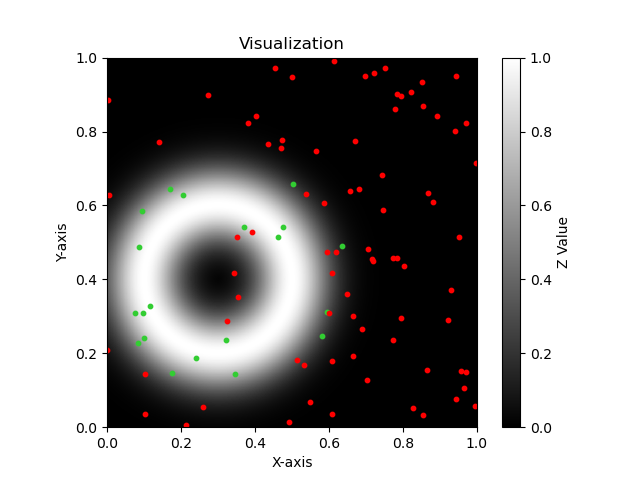
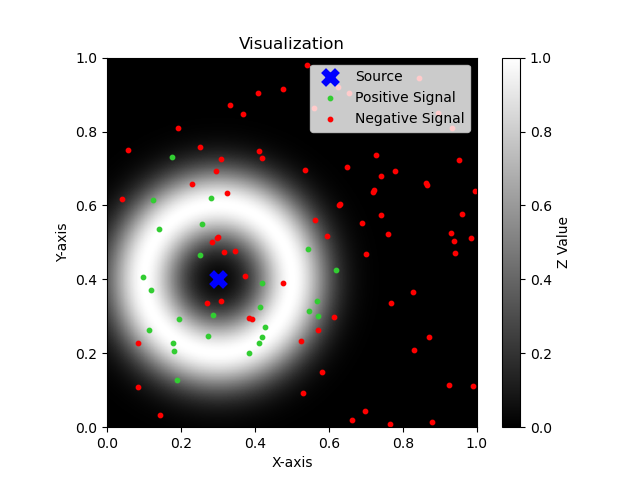
update

diff --git a/homework1/env.py b/homework1/env.py
@@ -24,6 +24,11 @@ class Env:
         self._X, self._Y = np.meshgrid(self._x, self._y)
         self._Z = np.zeros(self._X.shape).astype(np.float32)
 
+        # Default source origin is the center of the map
+        self._sx = (start_x + end_x) / 2
+        self._sy = (start_y + end_y) / 2
+        self.set_source_origin(self._sx, self._sy)
+
         # Initialize observation map with UNKNOWN values
         self._observation_map = np.full(self._X.shape, UNKNOWN).astype(np.int32)
     
@@ -32,24 +37,23 @@ class Env:
                           sy: float):
         # For each position in the map, the z value is exp(-100*(np.sqrt((x-sx)^2 + (y-sy)^2)-0.2)^2)
         # This creates a Gaussian-like distribution centered at (sx, sy)
-        self._Z = np.exp(-100 * (np.sqrt((self._X - sx) ** 2 + (self._Y - sy) ** 2) - 0.2) ** 2)
+        self._sx = sx
+        self._sy = sy
+        self._Z = np.exp(-100 * (np.sqrt((self._X - self._sx) ** 2 + (self._Y - self._sy) ** 2) - 0.2) ** 2)
 
-    def get_observation(self,
+    def register_observation(self,
                         x: float,
-                        y: float,
-                        execute: bool = True):
+                        y: float):
         # Randomly sample a value between 0 and 1
         value = np.random.rand()
         # Compare the value with the Z value at the given coordinates
         # If the value is less than the Z value, return POSITIVE
-        if value < self._Z[int((x - self.start_x) / self.dl), int((y - self.start_y) / self.dl)]:
-            if execute:
-                self._observation_map[int((x - self.start_x) / self.dl), int((y - self.start_y) / self.dl)] = POSITIVE
+        if value < self._Z[int((x - self.start_x) / self.dl), int((y - self.start_y) / self.dl)]:            
+            self._observation_map[int((x - self.start_x) / self.dl), int((y - self.start_y) / self.dl)] = POSITIVE
             return POSITIVE
         # If the value is greater than the Z value, return NEGATIVE
         elif value > self._Z[int((x - self.start_x) / self.dl), int((y - self.start_y) / self.dl)]:
-            if execute:
-                self._observation_map[int((x - self.start_x) / self.dl), int((y - self.start_y) / self.dl)] = NEGATIVE
+            self._observation_map[int((x - self.start_x) / self.dl), int((y - self.start_y) / self.dl)] = NEGATIVE
             return NEGATIVE
     
     def clear_observation_map(self):
@@ -66,15 +70,22 @@ class Env:
                    cmap='gray',
                    interpolation='nearest')
         if show_observation_map:
+            # The source origin is marked with a blue cross
+            plt.scatter(self._sx, self._sy, c='blue', s=100, marker='x', linewidths=5, label='Source')  # Darker blue color
             # Gree dots for POSITIVE, Red dots for NEGATIVE
             plt.scatter(self._X[self._observation_map == POSITIVE],
                         self._Y[self._observation_map == POSITIVE],
                         c='#32CD32',  # Lighter green color
-                        s=10)
+                        s=10,
+                        label='Positive Signal')
             plt.scatter(self._X[self._observation_map == NEGATIVE],
                         self._Y[self._observation_map == NEGATIVE],
                         c='red',                        
-                        s=10)
+                        s=10,
+                        label='Negative Signal')
+            # Add legends
+            plt.legend(loc='upper right')
+
         plt.colorbar(mappable=plt.cm.ScalarMappable(cmap='gray'), label='Z Value')
         plt.title('Visualization')
         plt.xlabel('X-axis')

diff --git a/homework1/main.py b/homework1/main.py
@@ -4,6 +4,9 @@ import matplotlib.pyplot as plt
 from env import Env
 
 def main():
+    """
+    Question 1
+    """
     # Create an instance of the Env class
     env = Env(start_x=0.0, start_y=0.0, end_x=1.0, end_y=1.0, dl=0.001)
     # Set the source origin
@@ -15,9 +18,14 @@ def main():
     # Get observations for each random point
     for point in random_points:
         x, y = point
-        env.get_observation(x, y, execute=True)
+        env.register_observation(x, y)
     # Visualize the observation map
     env.visualize_map(show_observation_map=True)
+
+    """
+    Question 2
+    """
+    
 
 if __name__ == "__main__":
     main()
